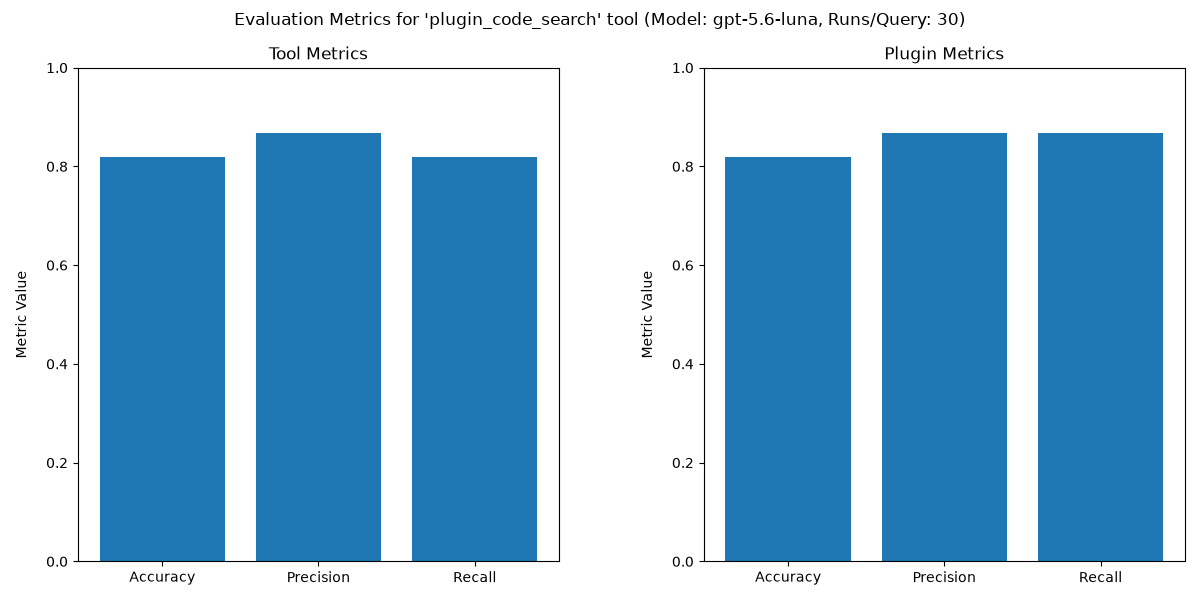
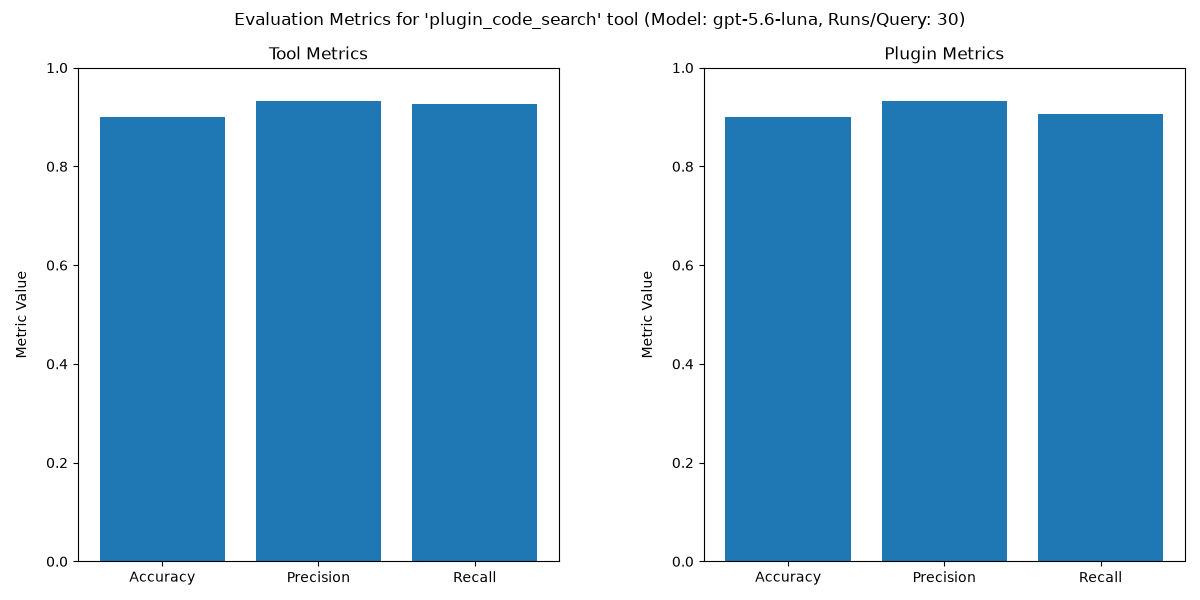
enhance prompt clarity, and refactor plugin detection logic for plugin_code_search tool

Changed region(s): [[0.0617, 0.15, 0.4625, 0.27], [0.5858, 0.15, 0.9867, 0.27]]

diff --git a/src/climateclaw/tools/plugin_code_search/server.py b/src/climateclaw/tools/plugin_code_search/server.py
@@ -27,12 +27,6 @@ FREVA_PROJECT_NAMES = {
     "regiklim": "ch1187",
     "freva": "freva",
 }
-FREVA_PROJECTS = [
-    "Coming Decade",
-    "ClimXtreme",
-    "RegiKlim",
-    "Freva",
-]
 ALLOWED_FILE_EXTENSIONS = (
     ".py",
     ".sh",
@@ -321,20 +315,12 @@ def validate_plugin_call(
     plugin: str, project: str, project_id: int | None
 ) -> Tuple[bool, str]:
     """
-    Validate the project and plugin names, and check if GitLab repo access for the current
-    user is configured for reading rights.
+    Validate GitLab repo availability for chosen plugin / project names,
+    as well as reading access for the current user.
     Returns a tuple (bool, str):
     - False and an error message string if validation fails; or
     - True and a success message if valid.
     """
-    # validate project name
-    if not project:
-        error_msg = (
-            f"Unknown project '{project}'. "
-            f"Available projects: {', '.join(FREVA_PROJECTS)}"
-        )
-        return False, error_msg
-
     # validate GitLab access of user
     if project_id is None:
         error_msg = f"Plugin '{plugin}' not found in GitLab project '{project}'."
@@ -370,30 +356,32 @@ def validate_plugin_call(
     return True, "Validation successful"
 
 
-async def auto_detect_plugin_project(user_query: str) -> tuple[str, str]:
+async def detect_plugin_project(user_query: str) -> tuple[str, str]:
     """
     Attempt to automatically detect the plugin and project names from the user's query
     by making a call to the LLM.
 
     Returns a tuple of (plugin_name, project_name):
     - plugin_name (str): Name of the repo or plugin (e.g. "leadtimeselektor")
-    - project_name (str): Name of the Freva instance/project
+    - project_name (str): Name of the Freva instance (e.g. "kd1418" for "coming decade")
     """
     file_path = Path(__file__).parent / "available_plugins.md"
     plugin_descriptions = file_path.read_text(encoding="utf-8", newline="\n")
-
+    # let LLM select plugin and project names from the available plugin summaries
     selection_prompt = (
-        "Task: Select the single best matching Freva plugin & project name for the user query from the provided plugin summaries.\n"
+        "Task: Select the semantically best matching Freva plugin & project name for the user query from the provided plugin summaries.\n"
         "Rules:\n"
-        "- Use only plugin/project names that appear in the summaries.\n"
+        "- Select only plugin & project names that appear in the summaries.\n"
         "- Return exactly one plugin and its corresponding project.\n"
-        "- If unsure, choose the closest semantic match.\n"
         "- Output must be exactly this format with no extra text: <plugin_name>,<project_name>\n\n"
         f"User query:\n{user_query}\n\n"
         f"Available plugin summaries:\n{plugin_descriptions}"
     )
     raw_text = await call_llm(selection_prompt)
-    plugin_name, project_name = raw_text.split(",")
+    # format to "<plugin_name>,<project_name>" output
+    plugin_name, project_name = raw_text.split(",", maxsplit=1)
+    plugin_name = plugin_name.strip().lower()
+    project_name = FREVA_PROJECT_NAMES.get(project_name.strip().lower(), "")
     logger.info(
         "Auto-detected plugin '%s' and project '%s' for examining code base.",
         plugin_name,
@@ -419,26 +407,25 @@ async def plugin_code_search(user_query: str) -> str:
         str: Relevant code context fetched from source files of the plugin repository;
         or an error message if the plugin call is not authorized / code retrieval fails.
     """
-    plugin_name, project_name = await auto_detect_plugin_project(user_query)
-    project = FREVA_PROJECT_NAMES.get(project_name.strip().lower(), "")
-    plugin = plugin_name.strip().lower()
+    plugin_name, project_name = await detect_plugin_project(user_query)
+    # return f"plugin_name: {plugin_name}, project_name: {project_name}"  # only for benchmarking the plugin detection stage
 
     # Validate the plugin call
-    project_id = get_project_id(plugin, project)
-    result, message = validate_plugin_call(plugin, project, project_id)
+    project_id = get_project_id(plugin_name, project_name)
+    result, message = validate_plugin_call(plugin_name, project_name, project_id)
     if not result:
         return message
 
     # Fetch the plugin code and return it with a header
-    logger.info("Fetching source code for plugin '%s'", plugin)
+    logger.info("Fetching source code for plugin '%s'", plugin_name)
     try:
-        code_content = await collect_plugin_context(plugin, project_id, user_query)  # type: ignore
+        code_content = await collect_plugin_context(plugin_name, project_id, user_query)  # type: ignore
     except Exception as e:
-        logger.warning("Failed to fetch plugin code for '%s': %s", plugin, e)
-        return f"Failed to retrieve source code for plugin '{plugin}': {e}"
+        logger.warning("Failed to fetch plugin code for '%s': %s", plugin_name, e)
+        return f"Failed to retrieve source code for plugin '{plugin_name}': {e}"
 
     header = (
-        f"Relevant retrieved code of the '{plugin}' plugin "
-        f"(https://gitlab.dkrz.de/{project}/plugins4freva/{plugin}):\n\n"
+        f"Relevant retrieved code of the '{plugin_name}' plugin "
+        f"(https://gitlab.dkrz.de/{project_name}/plugins4freva/{plugin_name}):\n\n"
     )
     return header + code_content

diff --git a/scripts/dev_evaluate_tool.py b/scripts/dev_evaluate_tool.py
@@ -66,10 +66,10 @@ SILENCE_LOGGING = True
 EVAL_TOOL_CALLS = True
 PLOT_METRICS = True  # plot metrics as bar charts at the end of the benchmark
 
-## direct questions about a plugin + indirect question that is more widely phrased, but should still trigger the plugin
+## evaluation suite, consisting of direct questions about a plugin + indirect ones that are more widely phrased
 path_to_prompts = Path(__file__).parent / "evaluation" / "benchmark_prompts.json"
 with open(path_to_prompts, "r", encoding="utf-8") as f:
-    BENCHMARK = json.load(f)
+    BENCHMARK = {k.lower(): v for k, v in json.load(f).items()}
 # BENCHMARK = {
 #     "leadtimeselektor": [
 #     "How does the 'leadtimeselektor' plugin work from a high-level perspective?",
@@ -82,7 +82,8 @@ path_to_plugins = (
     / "src/climateclaw/tools/plugin_code_search/available_plugins.md"
 )
 plugin_overview = path_to_plugins.read_text(encoding="utf-8")
-ALL_PLUGINS = re.findall(r"\*\*([^*]+)\*\*", plugin_overview)
+plugins = re.findall(r"\*\*([^*]+)\*\*", plugin_overview)
+ALL_PLUGINS = [p.lower() for p in plugins]
 
 # ──────────────────────────────────────────────────────────────────────────────
 log = configure_logging("dev_script")

diff --git a/src/climateclaw/services/streaming/stream_orchestrator.py b/src/climateclaw/services/streaming/stream_orchestrator.py
@@ -246,7 +246,10 @@ async def stream_with_tools(
                 (
                     tool_out_v,
                     tool_msgs,
-                ) = r.var_block, r.tool_messages
+                ) = (
+                    r.var_block,
+                    r.tool_messages,
+                )
                 break
             else:
                 yield r  # Streaming the result to endpoint

diff --git a/src/climateclaw/prompt_library/gpt_5/starting_prompt.md b/src/climateclaw/prompt_library/gpt_5/starting_prompt.md
@@ -21,7 +21,7 @@
   - `web_search` only for current, official documentation about DKRZ/HPC infrastructure, Slurm job submission, or the ICON model.
   - `plugin_code_search` when either:
       1. the user directly asks how a plugin's internal logic works, how to run or configure it, or requests plugin code translated into Python examples; or
-      2. the user asks a climate/weather question touching any of these specialized analysis topics — and in that case, **proactively call the tool** to anchor the analysis in existing plugin logic:
+      2. the user asks a *more complex* climate/weather question touching any of these specialized analysis topics — and in that case, **proactively call the tool** to anchor the analysis in existing plugin logic:
          - decadal prediction: lead time selection/aggregation, skill score evaluation against reanalysis/observations, cross-validation, recalibration/bias correction, or tercile statistics
          - climate and extreme indices from daily temperature or precipitation data, including their visualization
          - extreme-event impact assessment: crop productivity under compound events, heat wave evaluation (HWMID), or intensity-duration-frequency analysis
@@ -33,7 +33,7 @@
   Detailed usage rules for each tool are listed in section C. TOOL USAGE POLICY.
 - For conceptual questions that do not require tools, answer directly without a plan or tool call.
 - Ask one focused clarification only when it is necessary to perform the requested work (for example, an unclear dataset, region, variable, time range, or desired metric). Otherwise, use the defaults in section D. DATA ACCESS and state any consequential assumption.
-- Work in logical stages: *discover/load → inspect metadata → compute → validate → plot*, using only stages relevant to the request. Save a plot only when explicitly requested.
+- Work in logical stages: *discover/load → inspect metadata → compute → validate → plot*, using only stages relevant to the request. Do **NOT** save a plot by default, unless the user explicitly requests it.
 - After every tool call, base the next action and final response on the returned result. Do not claim that an action succeeded unless the tool output confirms it.
 
 ## C. TOOL USAGE POLICY
@@ -50,7 +50,7 @@
 - **Scope:** Execute all Python-based work in `code_interpreter` — especially data access, numerical analysis, visualization, or file generation.
 - **Workflow Requirements:** perform these steps in order:
   1. Use `freva-client` to load data from the LEVANTE supercomputer.
-  2. Before the actual computation, inspect the loaded data's variables, dimensions, coordinates, time coverage, and units.
+  2. Only inspect the loaded data's variables, dimensions, coordinates, time coverage, and units when requested or when the first attempt to load data fails.
 - **Rules:**
   - Always import required libraries explicitly. When querying Freva, include `import freva_client`.
   - Installed & available libraries are:
@@ -86,7 +86,7 @@
 
 - **Scope:** Fetch and analyze relevant source code parts of Freva data analysis plugins as a repository-grounded code knowledge base.
   - Use the fetched results to **SUPPLEMENT** and **GUIDE** the user query or analysis routine whenever an established, plugin-encoded analysis plugin exists for the user's task.
-  - Skip it for simple generic operations (basic data loading, a single mean/anomaly, a straightforward plot) with no specialized methodology involved.
+  - Skip it for simple or generic operations (basic data loading, a single (zonal) mean/anomaly, a straightforward plot) with no specialized methodology involved.
 - **Workflow Requirements:**
   - Call `plugin_code_search` **always** with `user_query` as the only argument to retrieve relevant source code or documentation files.
   - Analyze the returned source code files. Extract useful information about how the plugin logic works, how to use it, or how to write Python code based on it. For questions
@@ -97,7 +97,7 @@
 - **Rules:**
   - If the plugin code is found and can be used to answer the user query, handle it in two separate steps:
       1. **First step (always) – high level:** lay out the plugin's logic — a factful explanation of how it works and how to use it (including the plugin and project names). Do **NOT** do more than that; do **NOT** produce any implementation details yet, even if a (re-)implementation was requested.
-      2. **Second step (only if requested by the user) – implementation:** take the plugin code as baseline and transform its core logic into a functional, lightweight Python code snippet. Provide a concise plan and follow these guidelines:
+      2. **Second step (only if requested by the user) – implementation:** take the plugin code as baseline and transform its *core logic* into a functional, lightweight Python code snippet. Provide a concise plan and follow these guidelines:
          - follow the standard workflow (*load → inspect → compute*) routine as described below (see section D. DATA ACCESS and section E. DATA ANALYSIS STANDARDS).
          - replace `cdo` commands with `xarray` equivalents.
          - stick to a *functional and lightweight* approach: prioritize workflow correctness over mirroring every detail (e.g. non-critical fallbacks, logging) from the plugin.
@@ -178,11 +178,17 @@ Users may provide paths such as: `/work/bm1159/XCES/xces-work/k204225/MYWORK`. T
 
 ## I. FORMATTING
 
-- For equations use Markdown math: Inline: $E = mc^2$, or as math block:
+- For equations, use Markdown math:
+  - in-line: $E = mc^2$ or \\(E = mc^2\\) (double backslash to properly escape)
+  - as math block: $$\nabla \cdot \vec{u} = 0$$
+- For code, use Markdown code formatting:
+  - in-line: `print("hello world")`
+  - as code block:
 
-$$
-\nabla \cdot \vec{u} = 0
-$$
+  ```python
+  import xarray as xr
+  ds = xr.open_dataset("file.nc")
+  ```
 
 ---
 
